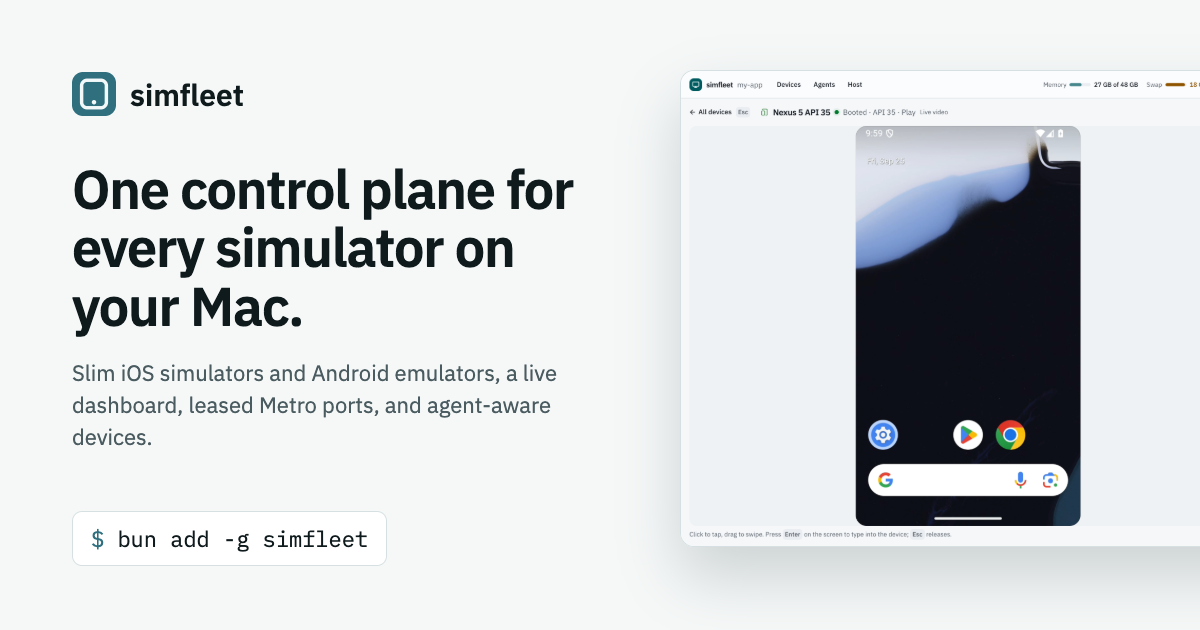
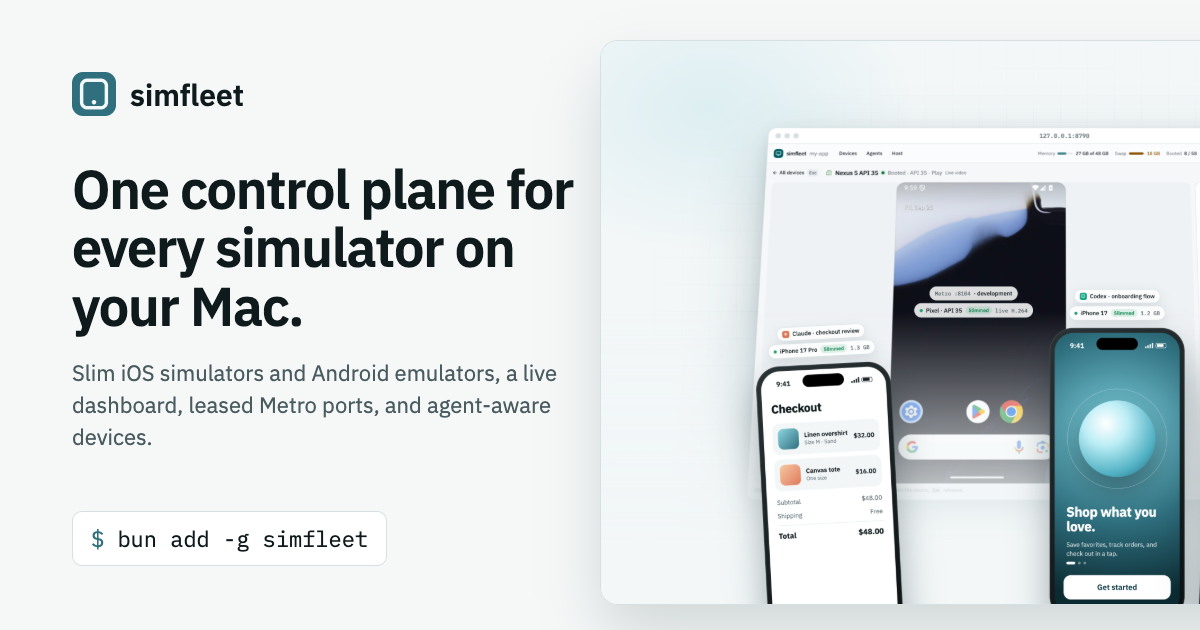
docs: new hero with iPhone simulators and the live Android dashboard
Neutral, designed demo-app screens on three iPhone frames floating over the
real dashboard (light and dark), used on the landing page, the docs
introduction, the README, and the social card.

diff --git a/docs/app/page.tsx b/docs/app/page.tsx
@@ -82,21 +82,21 @@ export default function Home() {
         </section>
 
         <section className="max-w-6xl mx-auto px-5 pb-20">
-          <div className="rounded-xl border border-border bg-muted/30 p-2 shadow-sm">
+          <div className="overflow-hidden rounded-2xl border border-border/60">
             <Image
-              src={withBasePath('/images/dashboard.png')}
-              alt="The simfleet dashboard showing a live Android emulator with the inspector panel"
-              width={2880}
-              height={1800}
+              src={withBasePath('/images/hero.webp')}
+              alt="The simfleet dashboard with a live Android emulator, and iPhone simulators each showing its slim status, Metro port, and the agent driving it"
+              width={3200}
+              height={2000}
               priority
-              className="w-full h-auto rounded-lg border border-border/60 dark:hidden"
+              className="w-full h-auto dark:hidden"
             />
             <Image
-              src={withBasePath('/images/dashboard-dark.png')}
-              alt="The simfleet dashboard showing a live Android emulator with the inspector panel"
-              width={2880}
-              height={1800}
-              className="w-full h-auto rounded-lg border border-border/60 hidden dark:block"
+              src={withBasePath('/images/hero-dark.webp')}
+              alt="The simfleet dashboard with a live Android emulator, and iPhone simulators each showing its slim status, Metro port, and the agent driving it"
+              width={3200}
+              height={2000}
+              className="w-full h-auto hidden dark:block"
             />
           </div>
         </section>

diff --git a/README.md b/README.md
@@ -19,7 +19,7 @@
   <a href="https://entropyconquers.github.io/simfleet/docs/api-reference/">API reference</a>
 </p>
 
-<p align="center"><img src="docs/public/images/dashboard.png" alt="The simfleet dashboard with a live Android emulator" width="900"></p>
+<p align="center"><img src="docs/public/images/hero.webp" alt="simfleet: a live dashboard with iPhone simulators and an Android emulator, each slim, on its own Metro port, and attributed to the agent driving it" width="900"></p>
 
 ---
 
